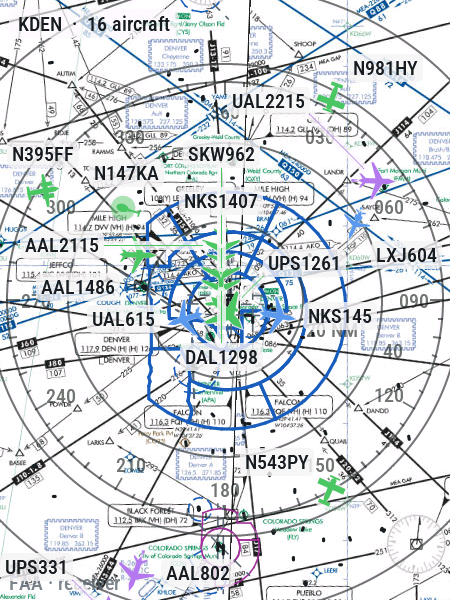
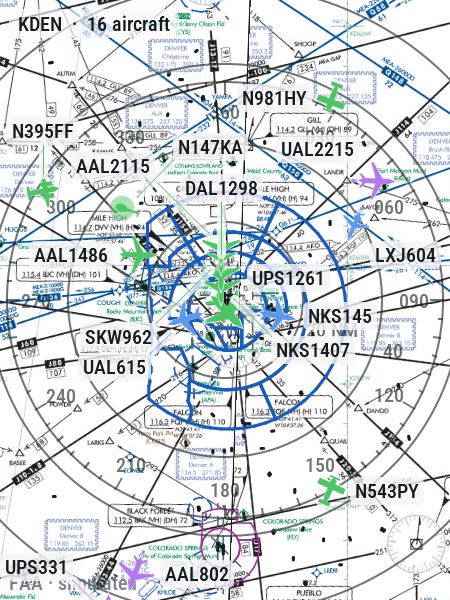
Credit a receiver's made-up planes as simulated, and show them so in the pictures

diff --git a/components/skyscope/feed.h b/components/skyscope/feed.h
@@ -67,10 +67,12 @@ inline std::string url(Feed feed, double lat, double lon, int radius_nm, const s
   }
   return out;
 }
-inline const char *credit(Feed feed) {
+// A receiver that says its planes are made up (`"simulated": true` in its reply, as the tests' mock and the
+// screenshots' sky do) is credited as such, so a picture of the glass never passes them off as real.
+inline const char *credit(Feed feed, bool simulated = false) {
   switch (feed) {
     case ADSB_FI: return "adsb.fi";
-    case RECEIVER: return "receiver";
+    case RECEIVER: return simulated ? "simulated" : "receiver";
     case RADIO: return "radio";
     default: return "adsb.lol";
   }
@@ -217,10 +219,11 @@ inline bool flight_of(JsonObjectConst p, Flight &f) {
 // seconds (4500 took over a minute, and then ran out of the slots a document has on a 32-bit chip). At most `most`
 // planes are kept, the first in the list: room for them all is taken at once, counted first, as a list grown a plane
 // at a time asked for twice its size in one piece (some 2 MB for 4500) with the old one still held, and a screen with
-// no piece that large stopped.
+// no piece that large stopped. `simulated`, if given, says whether the reply calls its planes made up
+// (`"simulated": true`).
 template<typename Doc>
 bool parse(const char *text, size_t length, Doc &doc, std::vector<Flight> &out, std::string &error,
-           size_t most = SIZE_MAX) {
+           size_t most = SIZE_MAX, bool *simulated = nullptr) {
   static const JsonDocument keep = plane_filter();
   const char *end = text + length, *p = scan::space(text, end);
   const char *list = nullptr, *list_end = nullptr;
@@ -228,6 +231,7 @@ bool parse(const char *text, size_t length, Doc &doc, std::vector<Flight> &out, 
     error = at ? "JSON: InvalidInput" : "JSON: IncompleteInput";
     return false;
   };
+  if (simulated) *simulated = false;
   if (p >= end) return broken(nullptr);
   if (*p != '{') return broken(p);
   // The reply's members: the list (`ac`, or `aircraft` as readsb names it) found, the rest stepped over.
@@ -247,6 +251,7 @@ bool parse(const char *text, size_t length, Doc &doc, std::vector<Flight> &out, 
       list = p;
       list_end = value_end;
     }
+    if (simulated && name == "simulated" && value_end - p == 4 && std::strncmp(p, "true", 4) == 0) *simulated = true;
     p = scan::space(value_end, end);
     if (p < end && *p == ',') p = scan::space(p + 1, end);
     else if (p < end && *p != '}') return broken(p);

diff --git a/components/skyscope/worker.cpp b/components/skyscope/worker.cpp
@@ -860,6 +860,7 @@ void Skyscope::worker_() {
           shared_.feed_at = done;
           shared_.feed_every_ms = every;
           shared_.feed_source = RADIO;
+          shared_.feed_simulated = false;
         } else {
           // No stick, or one not yet listening: the next source at once, and the radio again in a few seconds.
           answer.retry_after_s = RADIO_RETRY_S;
@@ -886,12 +887,12 @@ void Skyscope::worker_() {
         ui::worker_phase = ui::FEED_PARSE;
         std::vector<feed::Flight> flights;
         std::string error = r.error;
-        bool ok = r.status == 200;
+        bool ok = r.status == 200, simulated = false;
         if (ok) {
           JsonDocument doc;  // one plane at a time (feed.h): a kilobyte or two
           // As many planes as the largest piece of PSRAM holds, with as much again to spare for their words.
           const size_t room = heap_caps_get_largest_free_block(MALLOC_CAP_SPIRAM) / sizeof(feed::Flight) / 2;
-          ok = feed::parse(reinterpret_cast<const char *>(body.data), body.size, doc, flights, error, room);
+          ok = feed::parse(reinterpret_cast<const char *>(body.data), body.size, doc, flights, error, room, &simulated);
           if (ok && flights.size() == room) ESP_LOGW(TAG, "Only %u planes of the reply kept: no room for more", (unsigned) room);
           if (ok) see_followed(flights);
           if (ok) overlay::keep_showable(flights, settings, plan.view, KEEP_EXTRA);
@@ -908,6 +909,7 @@ void Skyscope::worker_() {
           shared_.feed_at = done;
           shared_.feed_every_ms = every;
           shared_.feed_source = source;
+          shared_.feed_simulated = simulated && source == RECEIVER;
         } else {
           const uint32_t left = providers.failed(source, done, answer);
           ESP_LOGW(TAG, "%s: %s (HTTP %d), left alone for %u s%s", feed::credit(source), providers.state(source).error.c_str(),

diff --git a/tests/mock_feed.py b/tests/mock_feed.py
@@ -4,7 +4,8 @@ aircraft that are known, where they are known to be, a release to offer, and the
 
     tests/mock_feed.py [--port 8095] [--lat 40.6413 --lon -73.7781] [--scenario fixed]
 
-Point the screen at it (settings: feed "receiver", receiver_url http://<this machine>:8095/data/aircraft.json).
+Point the screen at it (settings: feed "receiver", receiver_url http://<this machine>:8095/data/aircraft.json). Its
+replies say `"simulated": true`, and the screen credits their planes as "simulated", not "receiver".
 tests/device_test.py --mock starts one of its own, in the same process. By hand, it takes:
 
     GET  /data/aircraft.json      the aircraft (any path ending in aircraft.json, and /v2/<lat>/<lon>/<dist>)
@@ -339,7 +340,8 @@ def handler_for(feed: Feed, firmware: Firmware):
                 self.answer(404, b'{"msg":"not here"}', what="404")
                 return
             fault = feed.take_fault()
-            reply = {"now": time.time(), "messages": 1000, "aircraft": feed.aircraft()}
+            # Made-up planes, said so: the screen credits them as "simulated", never as a real receiver's.
+            reply = {"now": time.time(), "messages": 1000, "simulated": True, "aircraft": feed.aircraft()}
             body = json.dumps(reply).encode()
             if fault == "429":
                 self.answer(429, b'{"msg":"slow down"}', {"Retry-After": "30"}, "429")

diff --git a/tests/test_host.cpp b/tests/test_host.cpp
@@ -541,6 +541,16 @@ static void test_feed() {
   CHECK(feed::parse(fi.c_str(), fi.size(), doc, two, error, 2) && two.size() == 2 && two.capacity() == 2);
   CHECK(feed::parse(fi.c_str(), fi.size(), doc, flights, error, 0) && flights.empty());
   CHECK(!feed::parse("{\"msg\":\"bad\"}", 13, doc, flights, error) && error == "bad");
+  // A reply that calls its planes made up is credited as such; any other is not.
+  bool simulated = true;
+  CHECK(feed::parse(fi.c_str(), fi.size(), doc, flights, error, SIZE_MAX, &simulated) && !simulated);
+  std::string made_up = fi;
+  made_up.insert(1, "\"simulated\": true, ");
+  CHECK(feed::parse(made_up.c_str(), made_up.size(), doc, flights, error, SIZE_MAX, &simulated) && simulated);
+  made_up.replace(made_up.find("true"), 4, "false");
+  CHECK(feed::parse(made_up.c_str(), made_up.size(), doc, flights, error, SIZE_MAX, &simulated) && !simulated);
+  CHECK(std::string(feed::credit(RECEIVER, true)) == "simulated" && std::string(feed::credit(RECEIVER)) == "receiver");
+  CHECK(std::string(feed::credit(ADSB_FI, true)) == "adsb.fi");
   CHECK(!feed::parse("<html>", 6, doc, flights, error));
   // Read plane by plane: what is no plane in the list is passed over, and brackets and quotes inside strings are words.
   const std::string odd = R"({"now":1,"note":"a } and a ] and \" in words","aircraft":[7,"plane",null,[],true,

diff --git a/components/skyscope/skyscope.cpp b/components/skyscope/skyscope.cpp
@@ -1234,6 +1234,7 @@ void Skyscope::update_status_(uint32_t now) {
   std::string status, tile_error, airspace_error;
   providers::Providers sources;
   Feed source = ADSB_FI;
+  bool simulated = false;
   uint32_t feed_at;
   int done, total;
   uint32_t radar_scan = 0, airspace_retry_at = 0;
@@ -1248,6 +1249,7 @@ void Skyscope::update_status_(uint32_t now) {
     download_total = shared_.card.total_tiles;
     sources = shared_.providers;
     source = shared_.feed_source;
+    simulated = shared_.feed_simulated;
     tile_error = shared_.tile_error;
     airspace_error = shared_.airspace_error;
     airspace_retry_at = shared_.airspace_retry_at;
@@ -1271,7 +1273,7 @@ void Skyscope::update_status_(uint32_t now) {
   std::string credit = tiles::credit(shown);
   if (shown.airspace && credit.find("FAA") == std::string::npos)
     credit += std::string(credit.empty() ? "" : " \xC2\xB7 ") + "FAA";
-  if (feed_at) credit += std::string(credit.empty() ? "" : " \xC2\xB7 ") + feed::credit(source);
+  if (feed_at) credit += std::string(credit.empty() ? "" : " \xC2\xB7 ") + feed::credit(source, simulated);
   // The radar's scan, at its time (a loop's goes by), and its source as IEM asks.
   if (shown.radar_overlay && radar_scan)
     credit += std::string(credit.empty() ? "" : " \xC2\xB7 ") + "Radar " + radar::clock(radar_scan) + " NEXRAD/IEM";

diff --git a/components/skyscope/page.h b/components/skyscope/page.h
@@ -248,7 +248,7 @@ async function status(){try{const s=await(await fetch('api/status')).json();name
  $('following').textContent=s.follow?'Now: '+s.follow.status+(s.follow.hex?' ('+s.follow.hex+')':'')+'.':'';
  $('every').textContent=s.feed_every_s?'Now asked every '+s.feed_every_s+' s.':'';
  const NAMES={adsb_fi:'adsb.fi',adsb_lol:'adsb.lol',receiver:'receiver',radio:'radio'};
- let t=s.name+' · '+s.aircraft+' aircraft'+(s.feed_source?' from '+NAMES[s.feed_source]:'');
+ let t=s.name+' · '+s.aircraft+' aircraft'+(s.feed_source?' from '+(s.feed_simulated?'a simulation':NAMES[s.feed_source]):'');
  const waits=(s.feeds||[]).filter(f=>f.waiting).map(f=>NAMES[f.feed]+': '+f.error+', again in '+wait(f.retry_in_s));
  if(waits.length)t+=' · '+waits.join(' · ');
  $('sources').textContent=(s.feeds||[]).map(f=>NAMES[f.feed]+': '+(f.waiting?f.error+' ('+f.failures+(f.failures>1?' times':' time')+' in a row), again in '+wait(f.retry_in_s):'available')+(f.paced_s?', asked at most every '+f.paced_s+' s':'')).join(' · ')

diff --git a/components/skyscope/skyscope.h b/components/skyscope/skyscope.h
@@ -166,6 +166,7 @@ class Skyscope : public Component,
     uint32_t feed_at = 0;  // millis() of the last good answer
     providers::Providers providers;  // each exchange's record: waiting, failures, pace (providers.h)
     Feed feed_source = ADSB_FI;      // the exchange the last good report came from
+    bool feed_simulated = false;     // and it was a receiver whose planes are made up (feed.h credit)
     uint32_t frame_rev = 0, frame_plan_rev = 0;  // the base frame changed, for that plan
     int tiles_done = 0, tiles_total = 0;
     std::string tile_error;

diff --git a/components/skyscope/web.cpp b/components/skyscope/web.cpp
@@ -230,6 +230,7 @@ void Skyscope::handleRequest(AsyncWebServerRequest *request) {
     out["feed_age_s"] = shared_.feed_at ? (int32_t) ((millis() - shared_.feed_at) / 1000) : -1;
     // Each exchange in the order it is tried: waiting or not, for how long, and why.
     out["feed_source"] = FEEDS[shared_.feed_source];
+    out["feed_simulated"] = shared_.feed_simulated;  // a receiver's made-up planes (feed.h credit)
     JsonArray sources = out["feeds"].to<JsonArray>();
     const uint32_t now_ms = millis();
     for (const Feed f : shared_.providers.order()) {

diff --git a/README.md b/README.md
@@ -28,7 +28,9 @@ More of what the screen shows, each map and page with a word on it: [docs/screen
   the maps real ATC scopes use: the FAA does not publish those.
 - **Aircraft**: from adsb.fi or adsb.lol, a receiver of your own (readsb, tar1090, dump1090-fa: its
   `aircraft.json`), or on the P4 board the screen's own radio (an RTL-SDR stick on its USB port, below), every polling
-  interval, switching to another if one is unavailable. Each
+  interval, switching to another if one is unavailable. The credit at the bottom of the glass names the source; a
+  receiver whose reply says `"simulated": true` (the tests' mock, the pictures' made-up sky) is credited as
+  **simulated**, so made-up planes are never taken for real ones. Each
   aircraft drawn as what it is (airliner, wide-body, four-engined, business jet, turboprop, light aircraft,
   helicopter, fast jet, glider, balloon, airship, drone, ground vehicle: from its type, else the class its transponder
   sends, else its description; `make test-markers` draws them all on a sheet), or as one plane, an arrow or a dot,
@@ -377,7 +379,7 @@ The screen serves its settings page at `/` and a small JSON API beside it:
 |---|---|
 | `GET /api/settings` | every setting |
 | `POST /api/settings` | changes the settings in a JSON object (only the keys given); a wrong value answers 400 with `{"error": "<key>"}` and changes nothing. `{"follow": "BAW286"}` follows a plane, `{"follow": ""}` stops |
-| `GET /api/status` | Wi-Fi, free memory, aircraft, the feed's last error, map progress, the tile cache (`tile_cache`: tiles and KB held, tiles fetched and their KB, tiles from the cache, maps shown whole again), how long the map takes (`tile_times`: for a tile's download (`fetch`), its read from the map card (`card`), its decoding (`png`, `jpeg`) and its laying into the frame (`lay`), and for maps drawn from their tiles (`frames`), each a `count`, `mean_ms` and `most_ms`; the last map's `last_frame_ms`, `last_frame_tiles` drawn and `last_frame_from`: `tiles`, `kept`, `ahead`, or `ahead, part`; and `frames_ahead` and `tiles_ahead`, a followed plane's steps drawn ahead), the weather radar's scan shown (`radar_scan`), the airspace shown (areas, runways, bytes, last error, and `airspace_kept`: whether it is the one kept in flash from before the restart), the plane followed (`follow`: what was asked, `state` one of looking, live, lost, landed or gave_up, the status line's words, and once found its hex, callsign, registration, where it is or is likely to be, whether that is `estimated`, and the seconds since it was last heard), the screen's own radio (`radio`: what it is doing, messages a second and in all, one-bit errors mended, checksums failed, planes heard and placed, positions thrown away, samples dropped, its gain and noise floor), the map card (`card`, as `GET /api/card`), rotation, and timing: frames (drawing, waiting for the panel, sending), the LCD 2.8B's panel refills (`refills`: in all, late in all and in the last five seconds, the longest copy and span against its budget, in µs; a late one is a mark on the glass), slow frames by what the worker was doing, a report on the loop and on the worker |
+| `GET /api/status` | Wi-Fi, free memory, aircraft, where they came from (`feed_source`, and `feed_simulated` for a receiver's made-up planes), the feed's last error, map progress, the tile cache (`tile_cache`: tiles and KB held, tiles fetched and their KB, tiles from the cache, maps shown whole again), how long the map takes (`tile_times`: for a tile's download (`fetch`), its read from the map card (`card`), its decoding (`png`, `jpeg`) and its laying into the frame (`lay`), and for maps drawn from their tiles (`frames`), each a `count`, `mean_ms` and `most_ms`; the last map's `last_frame_ms`, `last_frame_tiles` drawn and `last_frame_from`: `tiles`, `kept`, `ahead`, or `ahead, part`; and `frames_ahead` and `tiles_ahead`, a followed plane's steps drawn ahead), the weather radar's scan shown (`radar_scan`), the airspace shown (areas, runways, bytes, last error, and `airspace_kept`: whether it is the one kept in flash from before the restart), the plane followed (`follow`: what was asked, `state` one of looking, live, lost, landed or gave_up, the status line's words, and once found its hex, callsign, registration, where it is or is likely to be, whether that is `estimated`, and the seconds since it was last heard), the screen's own radio (`radio`: what it is doing, messages a second and in all, one-bit errors mended, checksums failed, planes heard and placed, positions thrown away, samples dropped, its gain and noise floor), the map card (`card`, as `GET /api/card`), rotation, and timing: frames (drawing, waiting for the panel, sending), the LCD 2.8B's panel refills (`refills`: in all, late in all and in the last five seconds, the longest copy and span against its budget, in µs; a late one is a mark on the glass), slow frames by what the worker was doing, a report on the loop and on the worker |
 | `GET /api/aircraft` | the planes of the last report |
 | `GET /api/firmware` | the version running, the newest release, an install's progress, and the manifest it asks (`source`) |
 | `POST /api/firmware` | `{"check": true}` asks for the newest release again; `{"install": true}` installs it |
@@ -503,12 +505,12 @@ receiver's range, are missing, and positions may be late.
   repeatable (the sky and the services change), and needs no test API but for the weather page.
 - `make screenshots DEVICE=<address>` (`tools/screenshots.py`; `ONLY=streets-dark,radar` for some): the pictures in
   [docs/screens.md](docs/screens.md), taken from the screen's own glass (`GET /api/screenshot`) at public airports,
-  never the screen's own place. The maps, the FAA's airspace and the weather are the real ones; the planes are made
-  up and served from this machine as a receiver (airliners on the runway's final approach and climbing out, jets
-  passing over, light aircraft, helicopters), so no real flight is shown. Each scene is a place, a map and its
-  settings, and sometimes a touch (a plane's card, the menu, the weather page); the weather radar's goes where a
-  METAR reports rain now. It writes `docs/screens.md` from the pictures, and puts every setting back. It needs the
-  test API, and the screen must reach this machine, as the tests against the mock do.
+  never the screen's own place. The maps, the FAA's airspace and the weather are the real ones; the planes are made up
+  and served from this machine as a receiver, credited on the glass as **simulated** (airliners on the runway's final
+  approach and climbing out, jets passing over, light aircraft, helicopters), so no real flight is shown. Each scene is
+  a place, a map and its settings, and sometimes a touch (a plane's card, the menu, the weather page); the weather
+  radar's goes where a METAR reports rain now. It writes `docs/screens.md` from the pictures, and puts every setting
+  back. It needs the test API, and the screen must reach this machine, as the tests against the mock do.
 
 ### A screen reaching a test server under WSL
 
